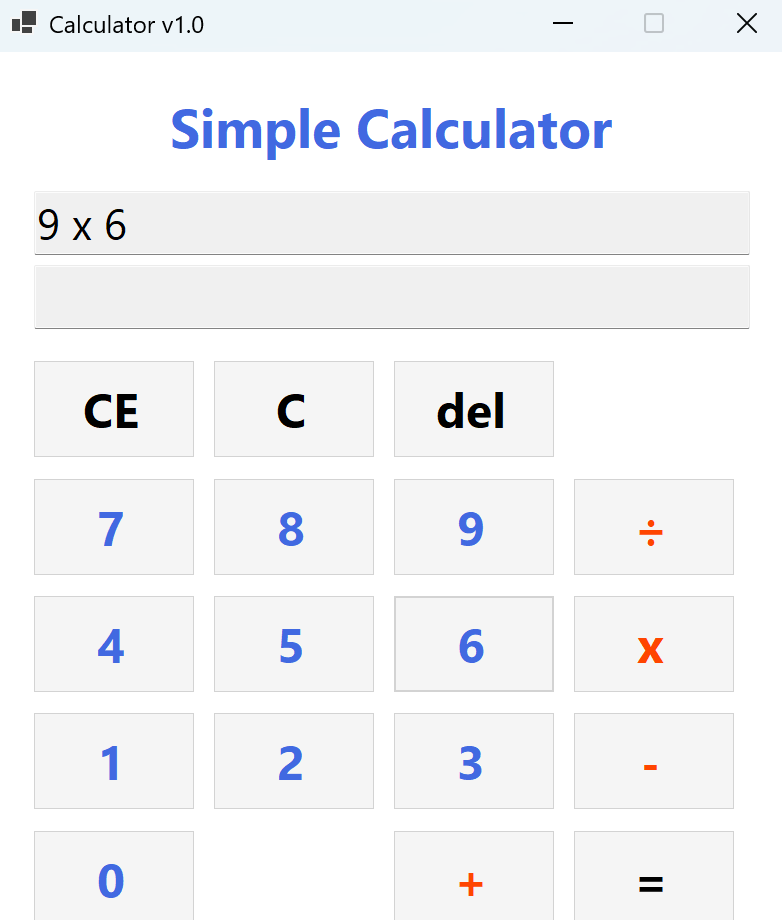
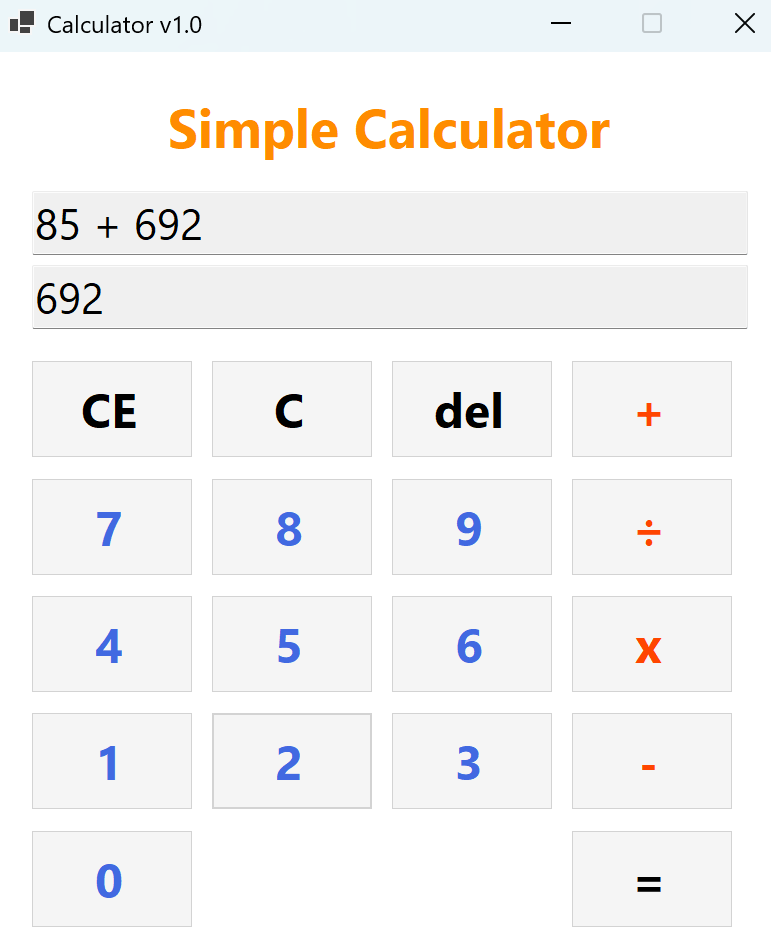
README 및 버그 수정 -README 사진 수정 -두 textbox간의 오류 수

diff --git a/Form1.cs b/Form1.cs
@@ -68,6 +68,7 @@ namespace SimpleCalculator
                 isNewInput = false;
             if (HasLeadingZero()) return;
             txtExpression.Text += digit;
+            UpdateCurrentNumberDisplay();
             ScrollToEnd();
         }
 
@@ -75,6 +76,21 @@ namespace SimpleCalculator
         {
             txtExpression.SelectionStart = txtExpression.Text.Length;
             txtExpression.ScrollToCaret();
+        }
+
+        private void UpdateCurrentNumberDisplay()
+        {
+            if (currentOperator == "")
+            {
+                txtResult.Text = txtExpression.Text;
+            }
+            else
+            {
+                string delim = " " + currentOperator + " ";
+                string[] parts = txtExpression.Text.Split(new string[] { delim }, StringSplitOptions.None);
+                if (parts.Length >= 2)
+                    txtResult.Text = parts[1];
+            }
         }
 
         private void SetBtn(Button btn, string text, Color back, Color fore, int x, int y, int w, int h)
@@ -109,6 +125,7 @@ namespace SimpleCalculator
 
             if (HasLeadingZero()) return;
             txtExpression.Text += digit;
+            UpdateCurrentNumberDisplay();
             ScrollToEnd();
         }
 
@@ -122,7 +139,7 @@ namespace SimpleCalculator
                 // 결과 상태에서 연산자 누름 → 결과를 첫 번째 수로 이어서 계산
                 if (!int.TryParse(txtResult.Text, out firstNumber)) return;
                 txtExpression.Text = txtResult.Text + " " + newOperator + " ";
-                txtResult.Text = "";
+                txtResult.Text = firstNumber.ToString();
                 isResult = false;
             }
             else if (currentOperator != "" && !isNewInput)
@@ -131,13 +148,14 @@ namespace SimpleCalculator
                 BtnEqual_Click(null, EventArgs.Empty);
                 if (!int.TryParse(txtResult.Text, out firstNumber)) return;
                 txtExpression.Text = txtResult.Text + " " + newOperator + " ";
-                txtResult.Text = "";
+                txtResult.Text = firstNumber.ToString();
                 isResult = false;
             }
             else if (currentOperator != "" && isNewInput)
             {
                 // 숫자 입력 없이 연산자만 다시 누름 → 연산자만 교체
                 txtExpression.Text = firstNumber.ToString() + " " + newOperator + " ";
+                txtResult.Text = firstNumber.ToString();
             }
             else
             {
@@ -146,6 +164,7 @@ namespace SimpleCalculator
                 if (raw == "") return;
                 if (!int.TryParse(raw, out firstNumber)) return;
                 txtExpression.Text += " " + newOperator + " ";
+                txtResult.Text = firstNumber.ToString();
             }
 
             currentOperator = newOperator;
@@ -165,14 +184,17 @@ namespace SimpleCalculator
 
         private void BtnCE_Click(object sender, EventArgs e)
         {
+            isResult = false;
             if (currentOperator == "")
             {
                 txtExpression.Text = "";
+                txtResult.Text = "";
             }
             else
             {
                 string prefix = firstNumber.ToString() + " " + currentOperator + " ";
                 txtExpression.Text = prefix;
+                txtResult.Text = firstNumber.ToString();
             }
             isNewInput = true;
         }
@@ -182,6 +204,7 @@ namespace SimpleCalculator
             if (isResult) return; // 결과 표시 중엔 Del 무시
             if (txtExpression.Text.Length > 0)
                 txtExpression.Text = txtExpression.Text.Substring(0, txtExpression.Text.Length - 1);
+            UpdateCurrentNumberDisplay();
             ScrollToEnd();
         }
 

diff --git a/README.md b/README.md
@@ -41,9 +41,10 @@
 ![과제3 실행화면](img/work3_1.png)
 ![과제3 실행화면](img/work3_2.png)
 ![과제3 실행화면](img/work3_3.png)
+![과제3 실행화면](img/work3_4.png)
 
 - 과제 내용
-    - 첫번째 사진(수식 입력), 두번째 사진(del 기능 구현), 세번째 사진(C 기능 구현)  
+    - 첫번째 사진(수식 입력), 두번째 사진(del 기능 구현), 세번째 사진(CE 기능 구현), 네번째 사진(C 기능 구현) 
     - 계산기의 수정 및 삭제 기능을 담당하는 C, CE, Del 버튼을 추가로 구현하였다. C 버튼은 모든 입력과 변수를 초기화하고, CE 버튼은 마지막으로 입력한 피연산자만 삭제하며, Del 버튼은 마지막으로 입력된 숫자 한 글자를 삭제하도록 하였다.
 - 구현 내용과 기능 설명
     - C 버튼 클릭 시 txtExpression과 txtResult를 비우고 firstNumber, currentOperator 등 모든 변수를 초기 상태로 리셋하였다. CE 버튼 클릭 시 연산자 입력 전이면 전체를 지우고, 연산자 입력 후이면 두 번째 피연산자만 삭제하여 연산자까지의 식으로 되돌렸다. Del 버튼은 Substring()을 이용해 마지막 글자 하나를 제거하였다.
